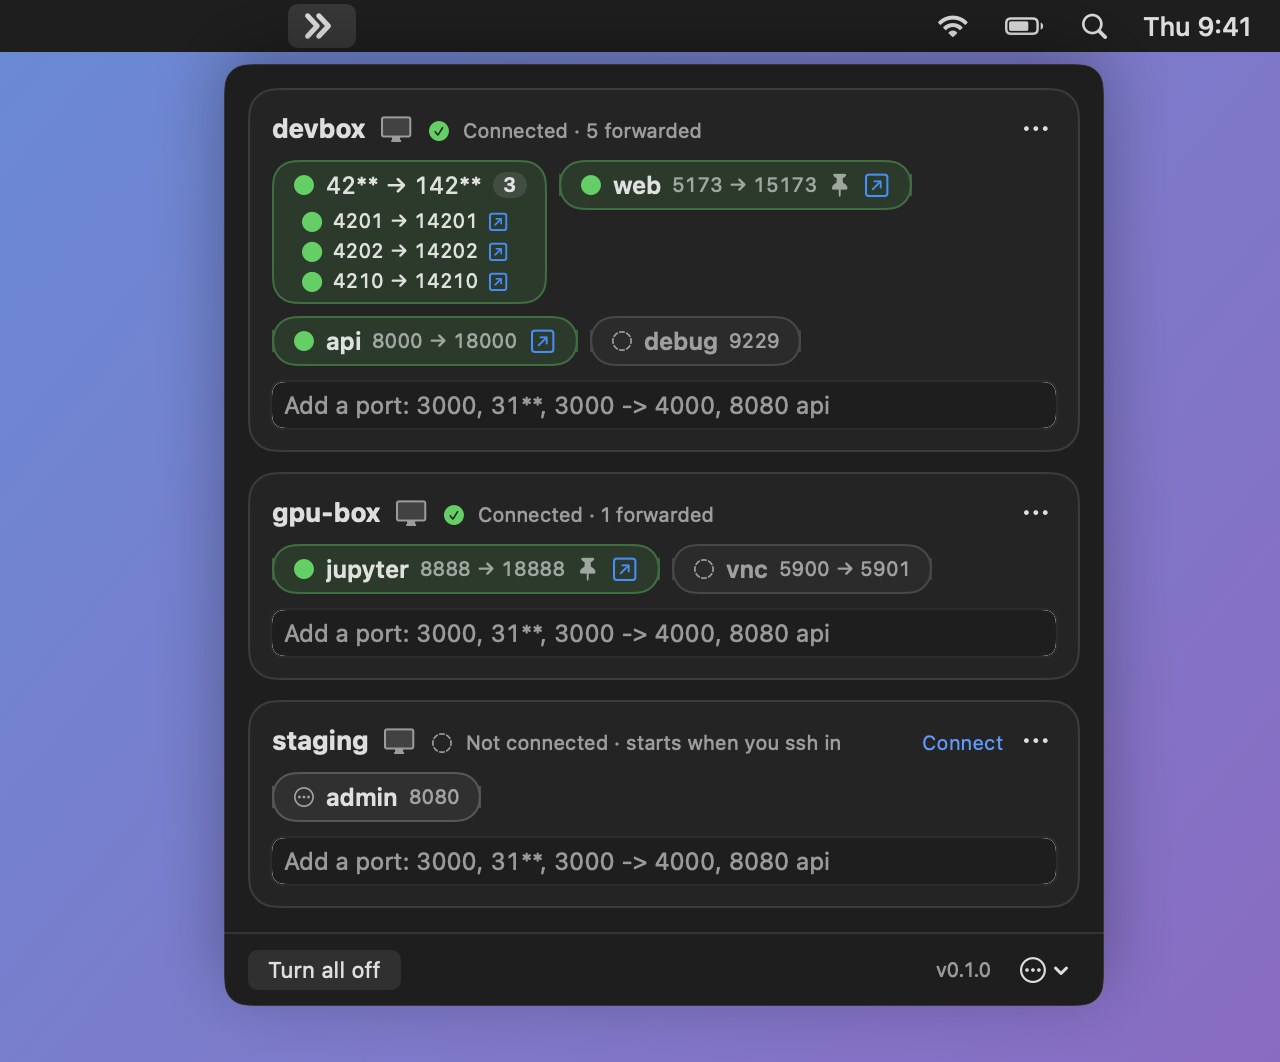
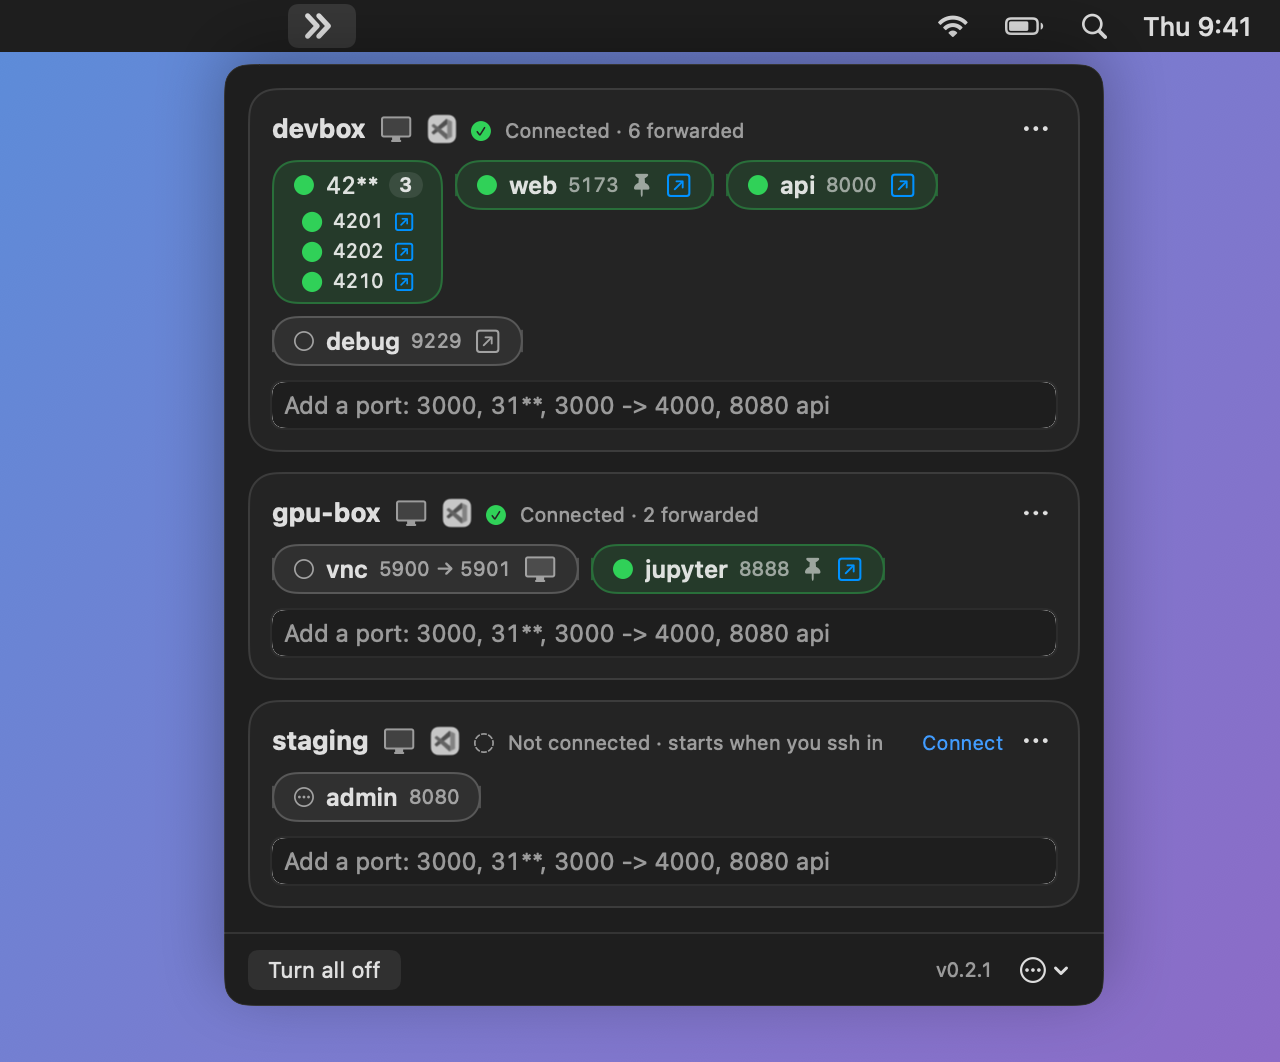
Retake the README screenshot with the VS Code button
Rendered at v0.2.1 from a demo sshd. The hero snapshot keeps the VS Code
button even though the demo hosts come from FWD_SSH_CONFIG, and draws in
a 2x window so it stays sharp on a 1x screen.

diff --git a/Sources/fwd/FwdApp.swift b/Sources/fwd/FwdApp.swift
@@ -177,16 +177,16 @@ final class AppDelegate: NSObject, NSApplicationDelegate, NSWindowDelegate {
         }
     }
 
-    /// Like `--snapshot`, but draws the menu bar panel at the size it picks for itself.
-    /// `--light` draws it in light mode whatever the system uses.
+    /// Like `--snapshot`, but draws the menu bar panel at the size it picks for itself,
+    /// at 2x whatever the screen. `--light` draws it in light mode whatever the system uses.
     private func snapshotPanel(to file: URL, _ content: AnyView? = nil) {
         let view = NSHostingView(rootView:
             (content ?? AnyView(PanelView(model: model, updater: updater, app: self, inWindow: false)
                 .frame(width: 440)))
                 .background(.windowBackground))
         if CommandLine.arguments.contains("--light") { view.appearance = NSAppearance(named: .aqua) }
-        let w = NSWindow(contentRect: NSRect(x: 0, y: 0, width: 440, height: 100),
-                         styleMask: [.borderless], backing: .buffered, defer: false)
+        let w = RetinaWindow(contentRect: NSRect(x: 0, y: 0, width: 440, height: 100),
+                               styleMask: [.borderless], backing: .buffered, defer: false)
         w.contentView = view
         w.orderFrontRegardless()
         DispatchQueue.main.asyncAfter(deadline: .now() + 8) {
@@ -453,8 +453,9 @@ final class AppDelegate: NSObject, NSApplicationDelegate, NSWindowDelegate {
 
     /// The first VS Code-like editor installed, for the host card's button.
     /// None when fwd reads another ssh config: Remote-SSH only reads its own.
+    /// The README screenshot is drawn from a demo config, so it keeps the button.
     var vsCode: (editor: VSCode.Editor, app: URL)? {
-        guard paths.sshConfigOverride == nil else { return nil }
+        guard paths.sshConfigOverride == nil || CommandLine.arguments.contains("--snapshot-hero") else { return nil }
         for editor in VSCode.editors {
             if let app = NSWorkspace.shared.urlForApplication(withBundleIdentifier: editor.bundleID) {
                 return (editor, app)

diff --git a/Sources/fwd/HeroSnapshot.swift b/Sources/fwd/HeroSnapshot.swift
@@ -1,6 +1,11 @@
 import AppKit
 import SwiftUI
 
+/// Draws at 2x on any screen, so snapshots taken on a 1x display stay sharp.
+final class RetinaWindow: NSWindow {
+    override var backingScaleFactor: CGFloat { 2 }
+}
+
 /// For the README: the panel hanging from fwd's icon in a menu bar, drawn
 /// by `--snapshot-hero`. The bar's other items are stand-ins; the icon and
 /// the panel are the app's own.
